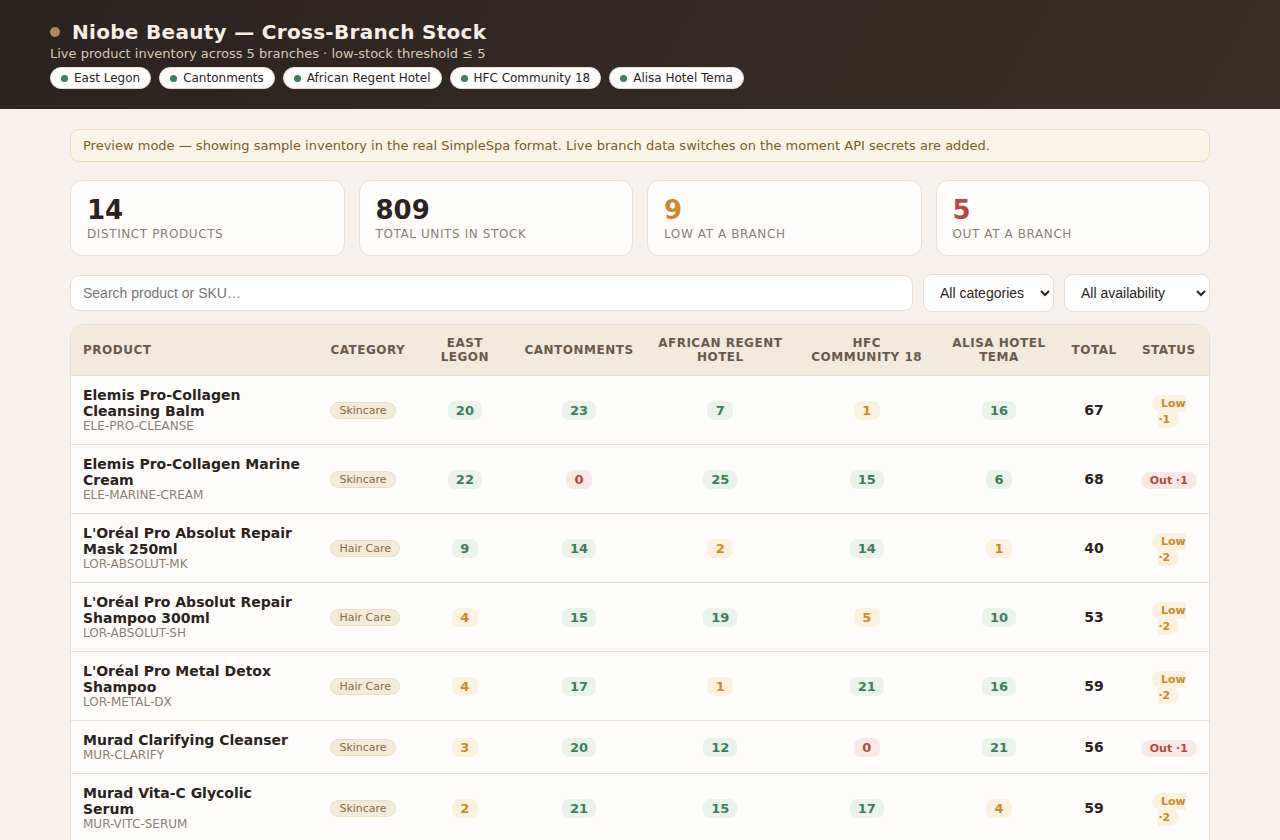
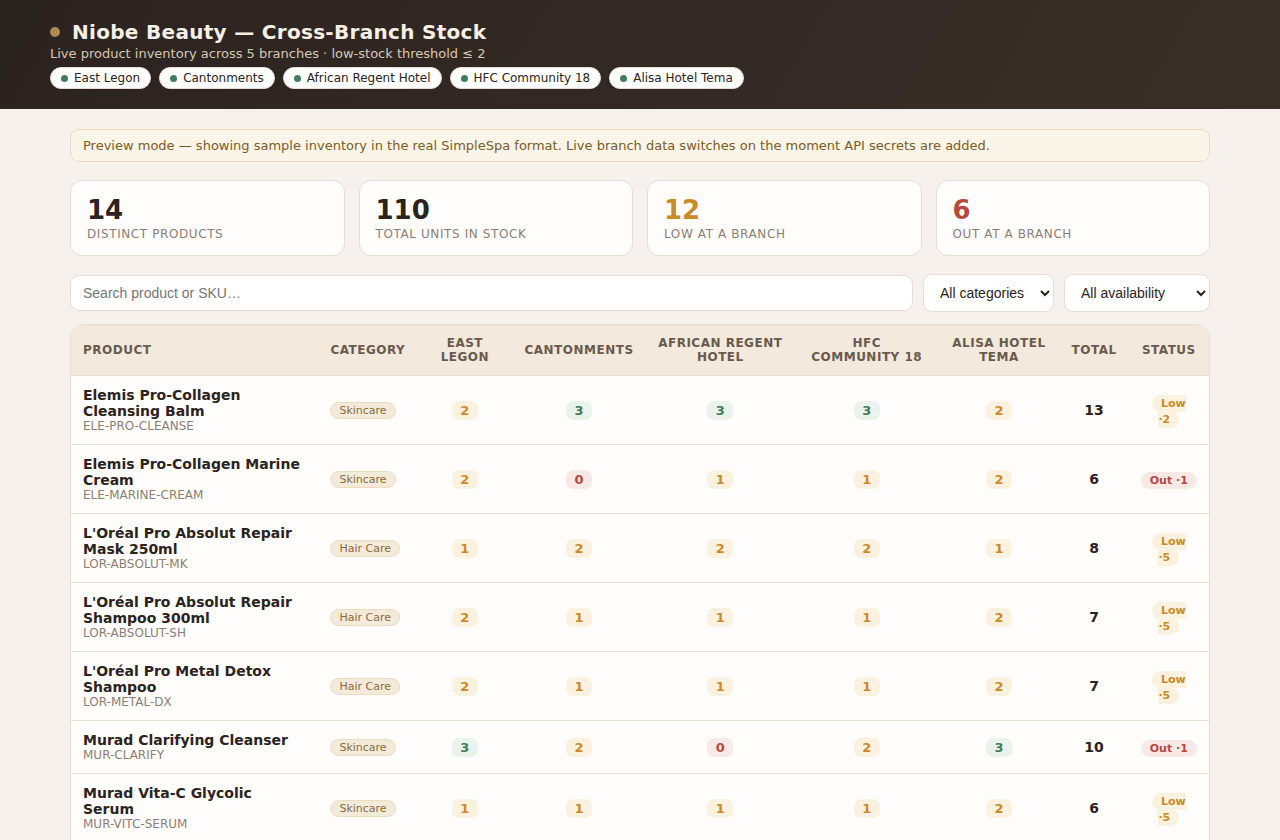
Set low-stock threshold to 2; tune demo data to real shelf capacity (max 3/product)

diff --git a/src/mockData.js b/src/mockData.js
@@ -27,19 +27,22 @@ function seeded(branchId, sku) {
   return (h >>> 0);
 }
 
-// A handful of intentional gaps/low-stock so the staff view has something to flag.
+// A handful of intentional gaps so the staff view has something to flag.
+// Niobe stock a max of ~3 units per product (limited shelf space), so demo qtys stay 0–3.
 const FORCED = {
-  'east_legon:MUR-VITC-SERUM': 2,
   'cantonments:ELE-MARINE-CREAM': 0,
-  'african_regent:LOR-METAL-DX': 1,
   'hfc_c18:OPI-BIG-APPLE': 0,
-  'alisa_hotel:NIO-SCRUB': 3,
+  'african_regent:MUR-CLARIFY': 0,
+  'east_legon:MUR-VITC-SERUM': 1,
+  'alisa_hotel:NIO-SCRUB': 1,
 };
 
 export function mockBranchProducts(branch) {
   return CATALOGUE.map((item) => {
     const forcedKey = `${branch.id}:${item.sku}`;
-    const stock = forcedKey in FORCED ? FORCED[forcedKey] : seeded(branch.id, item.sku) % 26;
+    // Gift cards are unlimited; everything else is 0–3 to match real shelf capacity.
+    const base = item.label === 'Gift Cards' ? (seeded(branch.id, item.sku) % 3) + 1 : seeded(branch.id, item.sku) % 4;
+    const stock = forcedKey in FORCED ? FORCED[forcedKey] : base;
     return {
       product_id: `${branch.id}-${item.sku}`,
       name: item.name,

diff --git a/src/config.js b/src/config.js
@@ -14,5 +14,5 @@ export const CONFIG = {
   demoMode: String(process.env.DEMO_MODE ?? 'true').toLowerCase() === 'true',
   base: process.env.SIMPLESPA_BASE || 'https://my.simplespa.com/api/v1',
   port: Number(process.env.PORT || 3000),
-  lowStockThreshold: Number(process.env.LOW_STOCK_THRESHOLD || 5),
+  lowStockThreshold: Number(process.env.LOW_STOCK_THRESHOLD || 2),
 };
